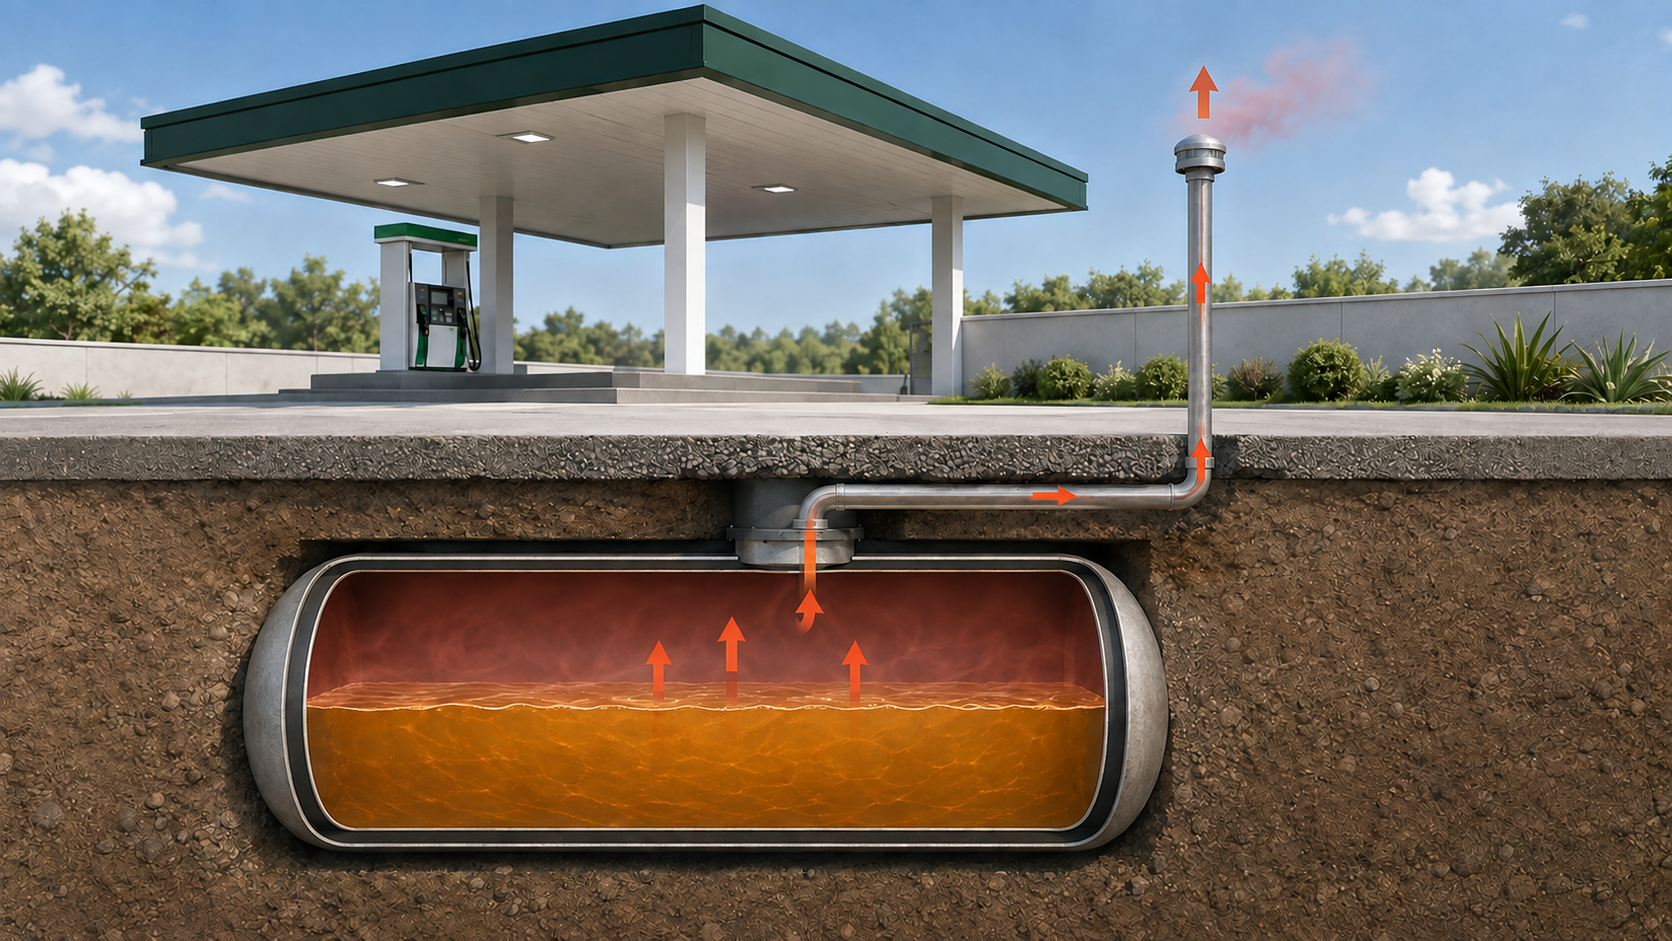
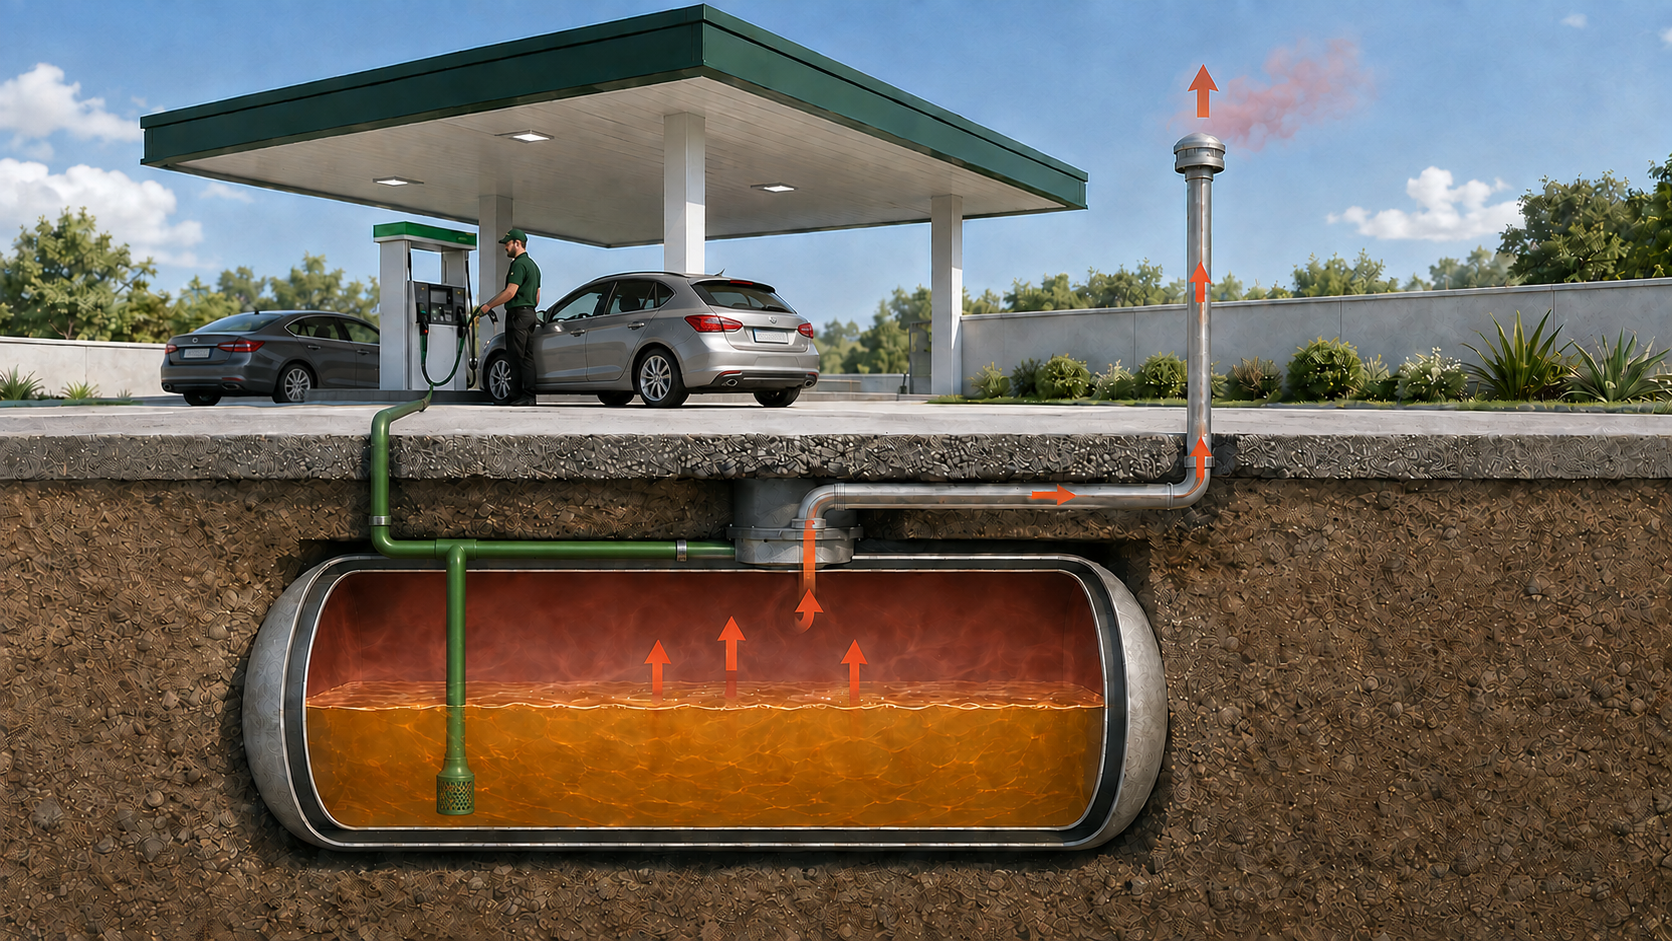
Enrich evaporation diagram with station activity

diff --git a/probleme.html b/probleme.html
@@ -16,7 +16,7 @@
 			<article class="problem-card"><span class="problem-icon" aria-hidden="true"><svg viewBox="0 0 24 24"><path d="M4 17h16M6 17V8h12v9M9 8V5h6v3"/><path d="M8 21h8"/></svg></span><h3>Remplissage</h3><p>Une livraison déplace les vapeurs présentes dans le réservoir.</p></article>
 			<article class="problem-card"><span class="problem-icon" aria-hidden="true"><svg viewBox="0 0 24 24"><circle cx="12" cy="12" r="8"/><path d="M12 8v4l3 2"/></svg></span><h3>Stockage</h3><p>Le phénomène continue tant que l'essence reste en cuve.</p></article>
 		</div></section>
-		<section class="problem-section problem-flow"><div class="problem-flow__copy"><p class="eyebrow">Une perte invisible</p><h2 class="page-title">Ce qui sort par l'évent ne revient pas dans le stock.</h2><p>Les vapeurs contiennent encore des hydrocarbures valorisables. Sans traitement, elles remontent depuis la cuve et sont rejetées dans l'atmosphère par l'évent.</p></div><figure class="problem-diagram"><img src="./assets/schema-evaporation-cuve.png?v=1" alt="Vue en coupe d'une station-service montrant les vapeurs d'essence qui remontent de la cuve souterraine et s'échappent par l'évent" loading="lazy"><figcaption>Les flèches rouges montrent le parcours des vapeurs, de la cuve jusqu'au rejet dans l'atmosphère.</figcaption></figure></section>
+		<section class="problem-section problem-flow"><div class="problem-flow__copy"><p class="eyebrow">Une perte invisible</p><h2 class="page-title">Ce qui sort par l'évent ne revient pas dans le stock.</h2><p>Les vapeurs contiennent encore des hydrocarbures valorisables. Sans traitement, elles remontent depuis la cuve et sont rejetées dans l'atmosphère par l'évent.</p></div><figure class="problem-diagram"><img src="./assets/schema-evaporation-cuve.png?v=2" alt="Vue en coupe d'une station-service en activité montrant l'alimentation liquide du distributeur et les vapeurs d'essence qui s'échappent séparément par l'évent de la cuve" loading="lazy"><figcaption>En vert, le carburant alimente la pompe. Les flèches rouges montrent le parcours distinct des vapeurs jusqu'au rejet dans l'atmosphère.</figcaption></figure></section>
 		<section class="problem-section"><p class="eyebrow">Trois impacts</p><h2 class="page-title">Un enjeu économique, environnemental et humain.</h2><div class="impact-grid">
 			<article class="impact-card impact-card--fuel"><span class="impact-card__number">01</span><div><h3>Carburant perdu</h3><p>Une fraction du produit acheté quitte la cuve sans être vendue.</p></div></article>
 			<article class="impact-card impact-card--planet"><span class="impact-card__number">02</span><div><h3>Pollution de l'air</h3><p>Les COV participent à la formation d'ozone au niveau du sol et de polluants secondaires.</p></div></article>
